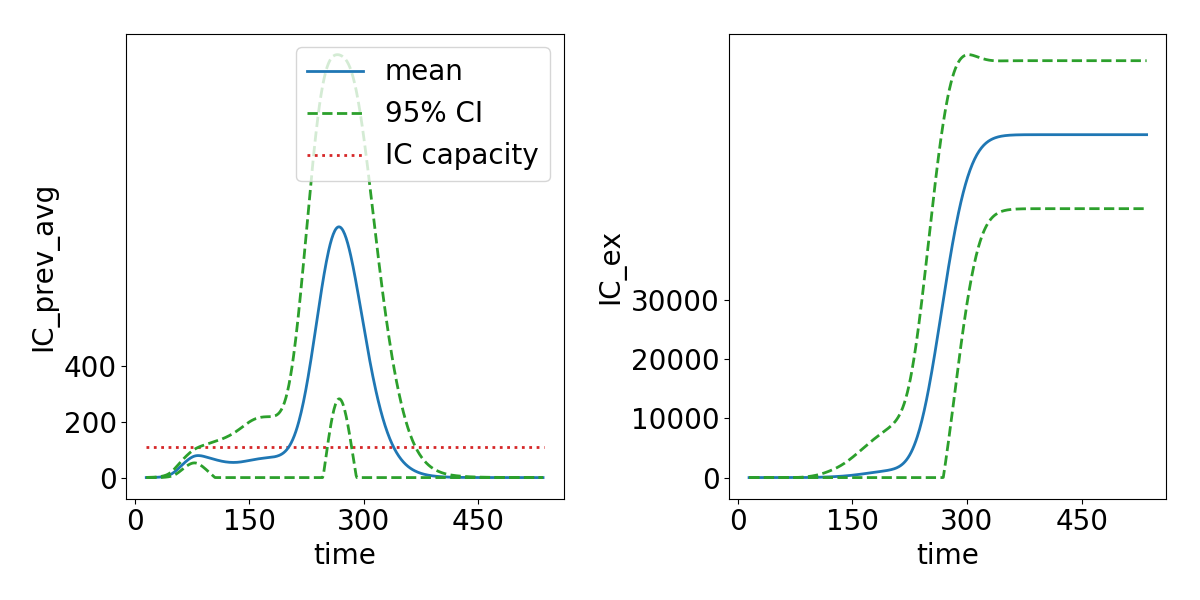
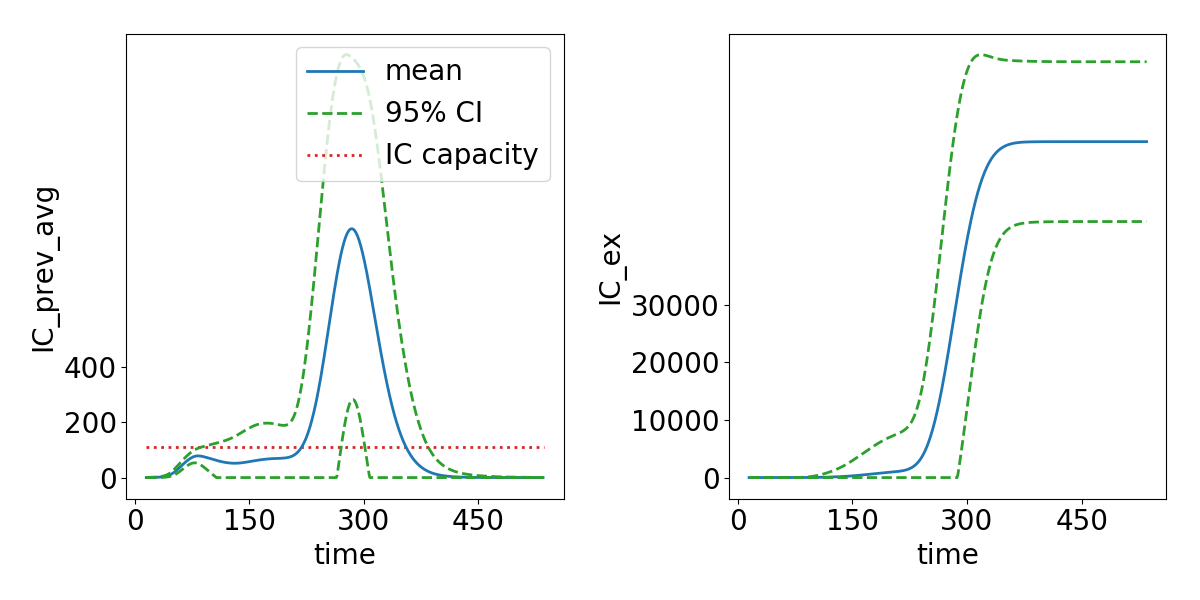
update figures for IL and start new campaign PO + bio

diff --git a/EasyVVUQ/job_submission_corona_PO.py b/EasyVVUQ/job_submission_corona_PO.py
@@ -115,10 +115,10 @@ vary = {
     "lockdown_effect": cp.Beta(alpha=14, beta=42),
     "phase_interval": cp.Gamma(shape=25, scale=2),
     "uptake": cp.Beta(alpha=16, beta=2),
-    # "Rzero": cp.Gamma(shape=100,scale=.025),
-    # "duration_infectiousness": cp.Gamma(shape=25,scale=.2), 
-    # "shape_exposed_time": cp.Gamma(shape=17.5,scale=1),
-    # "intervention_effect_var_inv": cp.Gamma(shape=2,scale=.05)
+    "Rzero": cp.Gamma(shape=100,scale=.025),
+    "duration_infectiousness": cp.Gamma(shape=25,scale=.2), 
+    "shape_exposed_time": cp.Gamma(shape=17.5,scale=1),
+    "intervention_effect_var_inv": cp.Gamma(shape=2,scale=.05)
 }
 
 #my_sampler = uq.sampling.SCSampler(vary=vary, polynomial_order=3, 
@@ -138,7 +138,7 @@ my_campaign.populate_runs_dir()
 
 # Run execution in parallel without Fabsim (using gnu parallel)
 cwd = os.getcwd()
-pcmd = f"ls -d {my_campaign.campaign_dir}/runs/Run_* | parallel -j 8 'cd {{}} ; Rscript {cwd}/phased_opening_UQ.r corona_in.json > output.txt ; cd .. '"
+pcmd = f"ls -d {my_campaign.campaign_dir}/runs/Run_* | parallel -j 8 'cd {{}} ; Rscript {cwd}/phased_opening_UQ_bio.r corona_in.json > output.txt ; cd .. '"
 print('Parallel run command: ',pcmd)
 subprocess.call(pcmd,shell=True)
 
